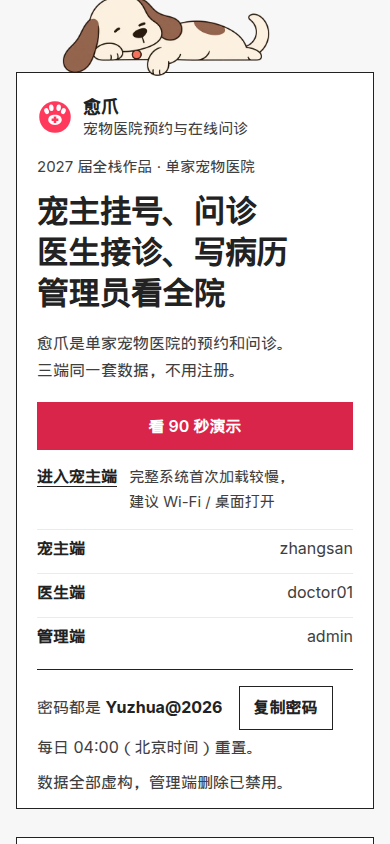
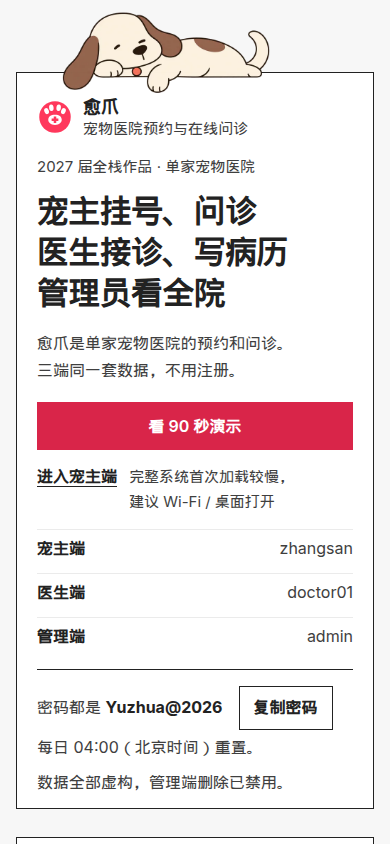
fix(demo): 让团团趴在挂号单纸沿上
透明留白让 -84% 的位移把肚子悬在纸外，改成 -70% 后肚子贴住纸沿、前爪垂进纸面。

Changed region(s): [[0.1538, 0.0, 0.7077, 0.1232]]

diff --git a/deploy/demo/agent-draft.html b/deploy/demo/agent-draft.html
@@ -70,7 +70,7 @@
       left: 28px;
       top: 0;
       width: min(300px, 68%);
-      transform: translateY(-84%);
+      transform: translateY(-70%);
       pointer-events: none;
     }
 

diff --git a/deploy/demo/agent-notes.md b/deploy/demo/agent-notes.md
@@ -21,6 +21,8 @@
 
 品牌感来自团团压住纸的上边线，以及整页只有一枚 `#d92549` 的章。`#ff385c` 只留在标志和项圈上，不铺底、不做标题。
 
+团团这张 WebP 是 680×340，四周有透明留白。不透明像素大约在 (49, 68)–(630, 293)：肚子底边约在图高的 73.5%，最低的前爪约在 86.5%。`.dog` 若用 `translateY(-84%)`，图片盒子只有约 16% 叠进纸里，肚子其实还悬在纸沿上方，桌面的灰会从躯干和尾巴下面露出来。现稿用 `translateY(-70%)`：宽 320px 时肚子约贴进纸里 6px，前爪垂进约 27px。尾巴尖本身向上翘，尖端下面仍有一点灰，那是卷起来的尾巴，不是缝。纸的 `margin-top` 仍是桌面 108px、手机 72px，耳朵没有被视口裁掉，也没有改图。
+
 ## 字体、色彩、动效
 
 字体栈与 `frontend/src/styles/main.css` 相同，不引外部字体。正文 16px / 1.7，说明 15px / 1.7。按钮高 48px，文字链至少 44px。挂号单用直角和 1px `#222` 外框，无投影。这和产品界面的 16px 圆角不同：纸是演示页自己的物件，截图仍是产品界面。
